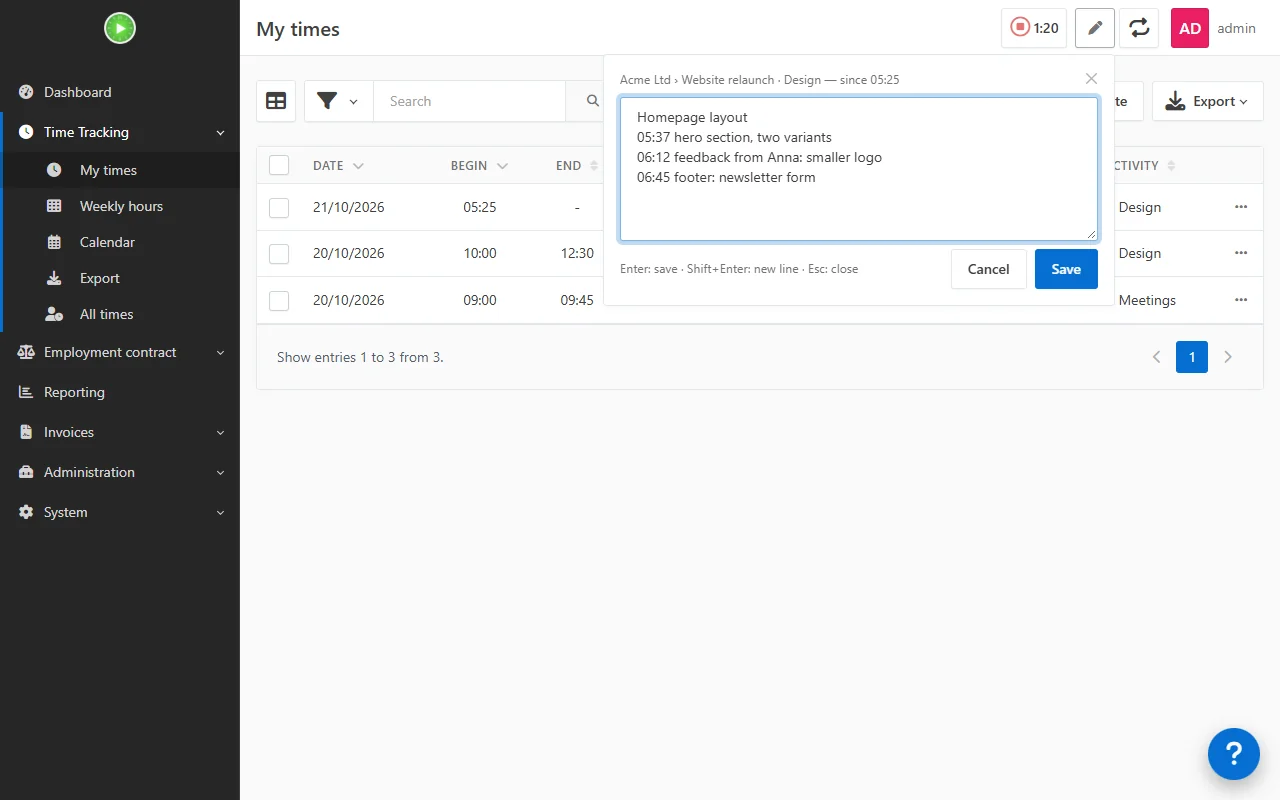
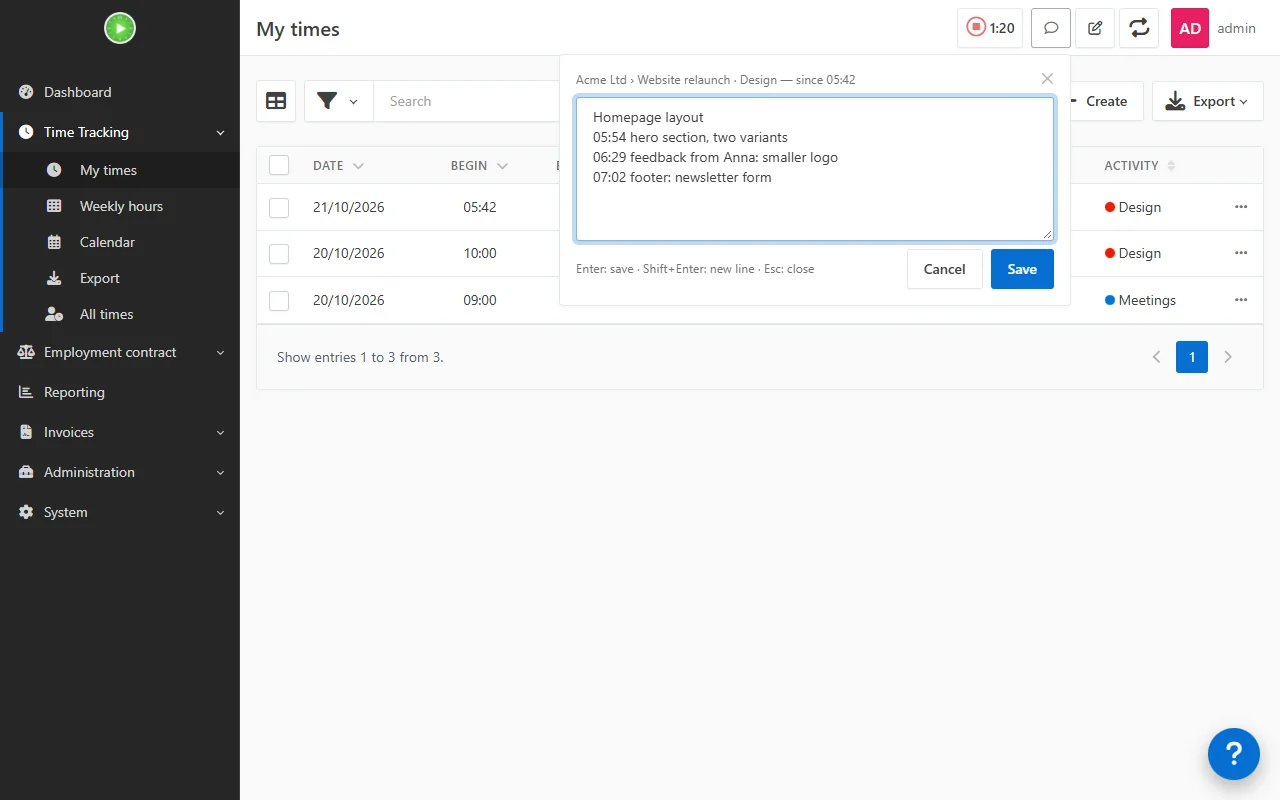
Edit button for the running timer (1.1.0)
A second button next to the running timer opens Kimai's full edit
dialog of the running entry (the same as Edit on its row in My times);
saved with an empty end, the timer keeps running. The note button now
shows Kimai's comment icon instead of a pen, so the two do not look
alike.

Changed region(s): [[0.4375, 0.0938, 0.6875, 0.3438], [0.7188, 0.0938, 0.875, 0.375], [0.75, 0.0, 0.875, 0.0625]]

diff --git a/EventSubscriber/TimerNotesSubscriber.php b/EventSubscriber/TimerNotesSubscriber.php
@@ -9,14 +9,15 @@ use Symfony\Component\Security\Core\Authorization\AuthorizationCheckerInterface;
 use Symfony\Contracts\Translation\TranslatorInterface;
 
 /**
- * Adds a "note" button next to the running timer in the toolbar. It opens a small box with the description of the
- * running timesheet and a new line that starts with the current time ("14:32 "): what is typed there is appended to
- * the description, and the timer keeps running. Enter saves, Shift+Enter starts another line, Esc closes. The time
- * alone, with nothing typed after it, is not saved.
+ * Adds two buttons next to the running timer in the toolbar:
+ * - "note" opens a small box with the description of the running timesheet and a new line that starts with the
+ *   current time ("14:32 "): what is typed there is appended to the description, and the timer keeps running. Enter
+ *   saves, Shift+Enter starts another line, Esc closes. The time alone, with nothing typed after it, is not saved;
+ * - "edit" opens Kimai's full edit dialog of the running timesheet (saved with an empty end, it keeps running).
  *
- * Kimai only lets the description be edited in the full edit dialog of the timesheet (the start dialog, or the row
- * in "My times"); the toolbar has the stop button only. The box saves through the API (PATCH of the description),
- * which reuses the session of the page, then triggers Kimai's "kimai.timesheetUpdate" so that lists reload.
+ * Kimai only lets a running timesheet be edited from its row in "My times"; the toolbar has the stop button only.
+ * The box saves through the API (PATCH of the description), which reuses the session of the page, then triggers
+ * Kimai's "kimai.timesheetUpdate" so that lists reload; the dialog is opened with Kimai's own modal plugin.
  */
 final class TimerNotesSubscriber implements EventSubscriberInterface
 {
@@ -38,11 +39,12 @@ final class TimerNotesSubscriber implements EventSubscriberInterface
             if (menus.length === 0) {
                 return;
             }
-            let api, alerts, events;
+            let api, alerts, events, modal;
             try {
                 api = event.detail.kimai.getPlugin('api');
                 alerts = event.detail.kimai.getPlugin('alert');
                 events = event.detail.kimai.getPlugin('event');
+                modal = event.detail.kimai.getPlugin('modal');
             } catch (error) {
                 console.warn('TimerNotesBundle disabled:', error);
                 return;
@@ -50,20 +52,40 @@ final class TimerNotesSubscriber implements EventSubscriberInterface
             const pad = (value) => String(value).padStart(2, '0');
             const clock = (date) => pad(date.getHours()) + ':' + pad(date.getMinutes());
 
-            // inside the menu of the stop button, so Kimai shows and hides it together with the running timer
-            const buttons = [];
-            for (const menu of menus) {
+            // Kimai's own icons for "comment" and "edit" (config/packages/tabler.yaml)
+            function addButton(menu, className, icon, label) {
                 const button = document.createElement('a');
                 button.href = '#';
-                button.className = 'btn btn-default btn-icon px-sm-2 tn-button';
-                button.title = labels.add;
-                button.setAttribute('aria-label', labels.add);
-                button.setAttribute('aria-expanded', 'false');
-                button.innerHTML = '<i class="fas fa-pen"></i>';
+                button.className = 'btn btn-default btn-icon px-sm-2 tn-button ' + className;
+                button.title = label;
+                button.setAttribute('aria-label', label);
+                button.innerHTML = '<i class="' + icon + '"></i>';
                 menu.appendChild(button);
+
+                return button;
+            }
+
+            // inside the menu of the stop button, so Kimai shows and hides them together with the running timer
+            const buttons = [];
+            const editButtons = [];
+            for (const menu of menus) {
+                const button = addButton(menu, 'tn-note', 'far fa-comment', labels.add);
+                button.setAttribute('aria-expanded', 'false');
                 buttons.push(button);
+                editButtons.push(addButton(menu, 'tn-edit', 'far fa-edit', labels.edit));
             }
             let anchor = buttons[0];
+
+            // the running entry, or nothing (then Kimai is told to hide the timer, which was stopped elsewhere)
+            function withActiveEntry(callback) {
+                api.get(config.active, {}, function (entries) {
+                    if (entries.length === 0) {
+                        events.trigger('kimai.timesheetUpdate');
+                        return;
+                    }
+                    callback(entries[0]);
+                });
+            }
 
             const panel = document.createElement('div');
             panel.className = 'card shadow tn-panel';
@@ -108,13 +130,8 @@ final class TimerNotesSubscriber implements EventSubscriberInterface
             }
 
             function open() {
-                api.get(config.active, {}, function (entries) {
-                    if (entries.length === 0) {
-                        // stopped elsewhere: let Kimai hide the timer
-                        events.trigger('kimai.timesheetUpdate');
-                        return;
-                    }
-                    entry = entries[0];
+                withActiveEntry(function (active) {
+                    entry = active;
                     const project = entry.project || {};
                     let text = [(project.customer || {}).name, project.name].filter(Boolean).join(' › ');
                     if (entry.activity && entry.activity.name) {
@@ -210,6 +227,20 @@ final class TimerNotesSubscriber implements EventSubscriberInterface
                     close();
                 }
             });
+            // Kimai's full edit dialog of the running entry; saved with an empty end, the timer keeps running
+            for (const button of editButtons) {
+                button.addEventListener('click', function (e) {
+                    e.preventDefault();
+                    if (isChanged()) {
+                        textarea.focus();
+                        return;
+                    }
+                    close();
+                    withActiveEntry(function (active) {
+                        modal.openUrlInModal(config.edit.replace('000', active.id));
+                    });
+                });
+            }
             saveButton.addEventListener('click', save);
             for (const element of panel.querySelectorAll('.tn-close')) {
                 element.addEventListener('click', close);
@@ -266,8 +297,10 @@ final class TimerNotesSubscriber implements EventSubscriberInterface
             'active' => $this->router->generate('active_timesheet'),
             // like Kimai's own stop URL in the toolbar: "000" is replaced by the id of the running timesheet
             'patch' => $this->router->generate('patch_timesheet', ['id' => '000']),
+            'edit' => $this->router->generate('timesheet_edit', ['id' => '000']),
             'labels' => [
                 'add' => $this->translator->trans('timer_notes.add'),
+                'edit' => $this->translator->trans('timer_notes.edit'),
                 'since' => $this->translator->trans('timer_notes.since'),
                 'hint' => $this->translator->trans('timer_notes.hint'),
                 'save' => $this->translator->trans('action.save'),

diff --git a/README.md b/README.md
@@ -1,10 +1,16 @@
 # TimerNotesBundle
 
 A [Kimai](https://www.kimai.org) plugin to write the details of what you are doing while the timer runs, not only
-when you start it.
+when you start it. Next to the stop button of the running timer, in the toolbar of every page, it adds two buttons:
 
-Next to the stop button of the running timer, in the toolbar of every page, there is a pen button. It opens a
-small box with the description of the running entry and a new line that already starts with the current time:
+- **Note** (speech bubble): a quick box to add a timestamped note to the description;
+- **Edit** (Kimai's edit icon): Kimai's full edit dialog of the running entry (begin, customer, project, activity,
+  description, tags...). Saved with an empty end, the timer keeps running.
+
+## Notes
+
+The note button opens a small box with the description of the running entry and a new line that already starts
+with the current time:
 
 ```
 Homepage layout
@@ -23,12 +29,19 @@ Type the note and press **Enter**: the line is appended to the description and t
 
 ![The note box under the running timer](screenshots/note-box.webp)
 
-Kimai lets you edit the description of a running entry only in the full edit dialog (the start dialog, or the row
-of the entry in *My times*); the toolbar has the stop button only.
+## Edit
+
+The edit button opens the same dialog as *Edit* on the entry's row in *My times*, without looking for the row.
+Leave the end empty to keep the timer running; fill it in to stop the timer at that time.
+
+![Kimai's edit dialog of the running entry](screenshots/edit-dialog.webp)
+
+Without the plugin, a running entry can only be edited from its row in *My times*: the toolbar has the stop button
+only.
 
 ## Requirements
 
-Kimai 2. Tested with 2.69.0. The button appears for users who may edit their own timesheets
+Kimai 2. Tested with 2.69.0. The buttons appear for users who may edit their own timesheets
 (`edit_own_timesheet`).
 
 ## Installation
@@ -62,11 +75,12 @@ again. To remove it, delete the `TimerNotesBundle` directory and run `kimai:relo
 ## How it works
 
 Through `ThemeEvent::STYLESHEET` and `ThemeEvent::JAVASCRIPT` the plugin adds a small style and script to every
-page of a logged-in user. The script adds the button to the toolbar's timer menu (Kimai shows and hides it with the
-running timer), reads the running entry from `GET /api/timesheets/active` when the button is clicked, and saves the
-description with `PATCH /api/timesheets/{id}`. These API calls use the session of the page, as Kimai's own
-frontend does, so no API token is needed. After saving it triggers Kimai's `kimai.timesheetUpdate` event, which
-reloads the lists.
+page of a logged-in user. The script adds the buttons to the toolbar's timer menu (Kimai shows and hides them with
+the running timer) and reads the running entry from `GET /api/timesheets/active` when one is clicked. The note box
+saves the description with `PATCH /api/timesheets/{id}`; these API calls use the session of the page, as Kimai's
+own frontend does, so no API token is needed. After saving it triggers Kimai's `kimai.timesheetUpdate` event, which
+reloads the lists. The edit button opens `/timesheet/{id}/edit` with Kimai's own modal plugin, which then works as
+for any other entry.
 
 Times are those of the browser's clock (`HH:MM`). The description is stored as plain text, one note per line; Kimai
 keeps the line breaks in its views, with or without Markdown enabled for descriptions.
@@ -75,8 +89,14 @@ The labels are translated (English and Italian; the buttons use Kimai's own tran
 by the plugin.
 
 It hooks into Kimai's frontend (toolbar markup and JavaScript plugins), which is not a public API: a future Kimai
-version may break it. In that case the button does not appear or the browser console shows an error; remove the
+version may break it. In that case the buttons do not appear or the browser console shows an error; remove the
 plugin and please open an issue.
+
+## Changes
+
+- 1.1.0: edit button (Kimai's full edit dialog of the running entry); the note button shows a speech bubble
+  instead of a pen.
+- 1.0.0: note button.
 
 ## License
 
